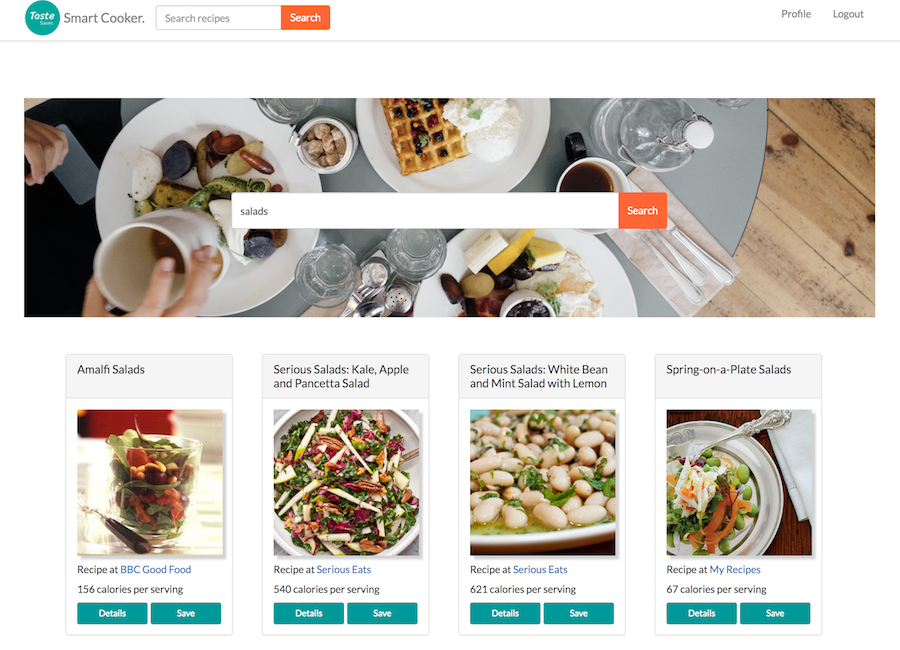
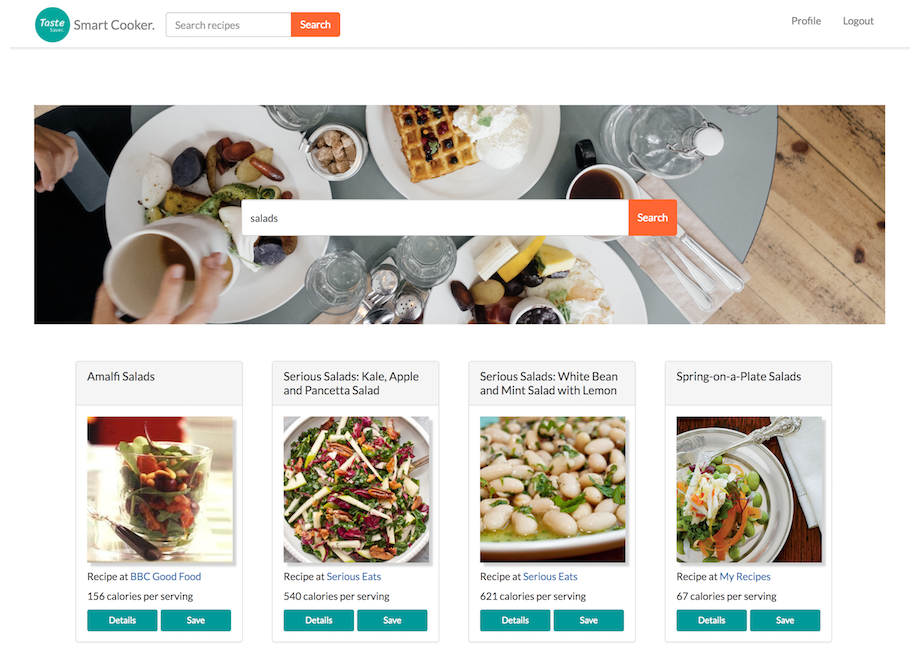
edited modal images

diff --git a/index.html b/index.html
@@ -468,7 +468,7 @@
             <div class="container">
                 <div class="row">
                     <div class="col-md-8 col-md-offset-2">
-                        <div class="modal-body">
+                        <div class="modal-body no-shadow">
                             <h2>Market Tracker</h2>
                             <hr class="star-primary">
                             <img src="img/portfolio/market-tracker-demo.png" class="img-responsive img-centered" alt="">

diff --git a/css/style.css b/css/style.css
@@ -708,3 +708,7 @@ fieldset[disabled] .btn-success.active {
 .modal-body img{
   box-shadow: 0px 3px 10px #444;
 }
+
+.modal-body.no-shadow img{
+  box-shadow: 0px 0px 0px #000;
+}
